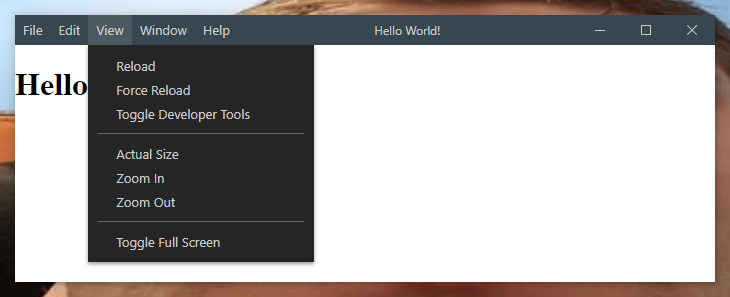
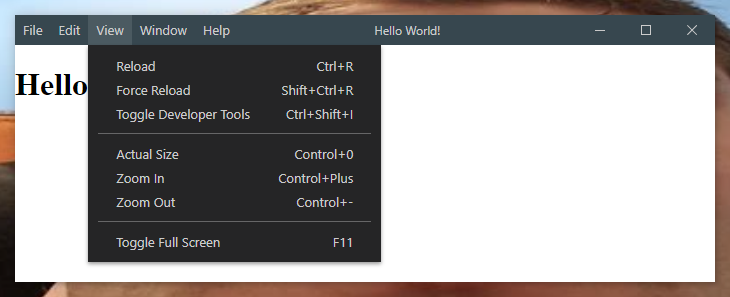
Use default role accelerator

Changed region(s): [[0.3616, 0.1515, 0.5425, 0.9091]]

diff --git a/src/index.ts b/src/index.ts
@@ -317,13 +317,20 @@ const buildMenuItem = (
     label.innerText = menuItem.label;
     item.append(label);
   }
+  
+  let defaultAccelerator;
 
-  if (menuItem.accelerator || (menuItem.key && menuItem.modifiers)) {
+  if(menuItem.role && !menuItem.accelerator && menuItem.getDefaultRoleAccelerator){
+    // Get default accelerator
+    defaultAccelerator = menuItem.getDefaultRoleAccelerator();
+  }
+
+  if (menuItem.accelerator || defaultAccelerator || (menuItem.key && menuItem.modifiers)) {
     // Add accelerator
     const accelerator = document.createElement('div');
     accelerator.classList.add(style.locals.accelerator);
-    accelerator.innerText = menuItem.accelerator
-      ? menuItem.accelerator.replace('CmdOrCtrl', 'Ctrl').replace('CommandOrControl', 'Control')
+    accelerator.innerText = menuItem.accelerator || defaultAccelerator
+      ? (menuItem.accelerator || defaultAccelerator).replace('CmdOrCtrl', 'Ctrl').replace('CommandOrControl', 'Control')
       : menuItem.modifiers.split('+').map(capitalizeFirstLetter).join('+') + '+' + capitalizeFirstLetter(menuItem.key);
     item.append(accelerator);
   }

diff --git a/README.md b/README.md
@@ -21,7 +21,7 @@ Poorly coded titlebar for [Electron](https://www.electronjs.org/) and [NW.js](ht
 
 * Compatible with any version of Electron 🎉
 * Works with Electron, NW.js and probably others 🤷♂
-* Works without any dependency, so it won't break in the next major release of Electron 👀
+* Works without any dependencies, so it won't break in the next major release of Electron 👀
 * Very small footprint (< 20 kB) 👣
 * Options and methods very similar to [custom-electron-titlebar](https://www.npmjs.com/package/custom-electron-titlebar) 📖
 
